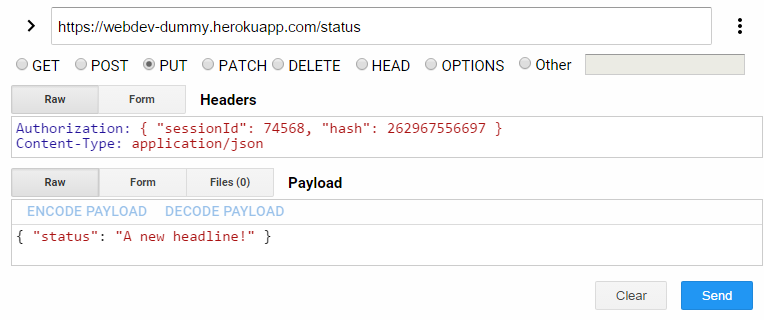
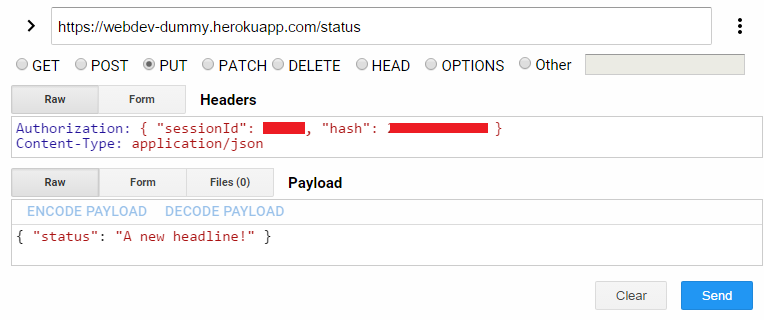
updates

Changed region(s): [[0.5118, 0.375, 0.6623, 0.4375], [0.3312, 0.375, 0.4215, 0.4375]]

diff --git a/data/api.html b/data/api.html
@@ -43,15 +43,19 @@ curl https://webdev-dummy.herokuapp.com/status
 </pre>
 <p>Ah ha! We need to login first!</p>
 <pre class="prettyprint lang-bash">
-curl -H 'Content-Type: application/json' https://webdev-dummy.herokuapp.com/login -d '{"username":"<netid>":, "password":"<three-word-passphrase>"}' -i
+curl -H 'Content-Type: application/json' https://webdev-dummy.herokuapp.com/login \
+    -d '{"username":"netid;":, "password":"three-word-passphrase"}' -i
 </pre>
-<p>This performs a <code>POST</code> (the data flag makes it a post by default) to the <code>/login</code> endpoint.  The payload is JSON, we inform the server it's JSON with the content-type header.  Be sure to pass properly formed JSON, this means keys are quoted.  The <code>-i</code> flag shows us the response headers.  If successful, we should see two <code>Set-Cookie</code> statements in the header.  We now pass those two authentication cookies when communicating with the server:</p>
+<p>(I've added a new line and \ for display purposes, you do not need the \ or the new line.)
+This performs a <code>POST</code> (the data flag makes it a post by default) to the <code>/login</code> endpoint.  The payload is JSON, we inform the server it's JSON with the content-type header.  Be sure to pass properly formed JSON, this means keys are quoted.  The <code>-i</code> flag shows us the response headers.  If successful, we should see two <code>Set-Cookie</code> statements in the header.  We now pass those two authentication cookies when communicating with the server:</p>
 <pre class="prettyprint lang-bash">
-curl -H 'Content-Type: application/json' --cookie 'sessionId=12345; hash=222333444' https://webdev-dummy.herokuapp.com/status
+curl -H 'Content-Type: application/json' --cookie 'sessionId=12345; hash=222333444' \
+    https://webdev-dummy.herokuapp.com/status
 </pre>
 <p>You should get back your current status headline from this <code>GET</code> request.  Now we change it:</p>
 <pre class="prettyprint lang-bash">
-curl -H 'Content-Type: application/json' --cookie 'sessionId=12345; hash=222333444' https://webdev-dummy.herokuapp.com/status -X PUT -d '{ "status":"A new headline!" }'
+curl -H 'Content-Type: application/json' --cookie 'sessionId=12345; hash=222333444' \
+    https://webdev-dummy.herokuapp.com/status -X PUT -d '{ "status":"A new headline!" }'
 </pre>
 <p>Status updating is an atomic action.  Therefore we use the <code>PUT</code> verb instead of the default <code>POST</code>.  Notice that we again pass JSON as the payload (the <code>-d</code> flag).  The server should respond with the updated status message.  We can then reverify by the previous <code>GET</code> request.
 </p>
@@ -67,11 +71,11 @@ the browser based REST client to verify what your payload should be and what the
 a cookie.  Using cookies in a browser based REST client is non-trivial.  Instead, I permit the
 cookie to be passed as an authorization header.  Below I use Advanced REST Client.  First
 we login to the server with our netid and three-word-passphrase</p>
-<img src="images/dummy-login.png">
+<img src="../images/dummy-login.png">
 <p>Look for the cookies in the response</p>
-<img src="images/dummy-cookie.png">
+<img src="../images/dummy-cookie.png">
 <p>Send these cookies on all future requests.  For example, here's changing the status headline</p>
-<img src="images/dummy-status.png">
+<img src="../images/dummy-status.png">
 
 <h3>Dummy Server API</h3>
 <table>
@@ -183,18 +187,6 @@ we login to the server with our netid and three-word-passphrase</p>
           <td>/zipcode</td><td>PUT</td><td>{ zipcode: newZipCode }</td>
           <td>{ username: loggedInUser, zipcode: newZipCode }</td>
           <td>update the zipcode for the loggedInUser</td>
-     </tr>
-
-     <tr>
-          <td>/locations/:user</td><td>GET</td><td>:user is a user id</td>
-          <td>{ username: :user, location: locationObject }</td>
-          <td>Returns the { lat:, lng: } of the requested user.</td>
-     </tr>
-
-     <tr>
-          <td>/locations</td><td>PUT</td><td>{ lat: latitude, lng: longitude }</td>
-          <td>{ username: :user, location: locationObject }</td>
-          <td>Updates the lat+lng of the loggedInUser</td>
      </tr>
 
      <tr>

diff --git a/views/assignments/frontend.html b/views/assignments/frontend.html
@@ -1,40 +1,29 @@
 <p>
-In this assignment you will implement and test the frontend of your web application.  The final product will be a fully functioning and tested front-end for a web application.
+In this assignment you will partially implement and test the frontend of your web application.  
 </p>
-<p>In the previous assignment we created two pages for our web application: the Landing page and the Main page.  
-The Landing page welcomes users and asks them to register or log in.  
-Additionally, visitors are invited to browse sample content from the site.
-The Main page is focused on the user's feed where they can add new posts, or comment on posts.  The feed is comprised of posts by the user and the users being followed.  These followed users appear in a list on the sidebar accompanied by their status headline.  We have mechanisms to add users and remove users from the followed list.  We have a mechanism to log out.  The user's status headline is shown and we have a way to edit it.  Finally there is a search box that allows us to filter posts by content (e.g., post author or body).
+<p>
+We start with our draft front-end application that contains three views: landing page with registration
+and login; main page with posts, followers, and status message; and the profile page.  
+Because the dummy server requires authentication, we start this assignment by implementing
+the login logic.  After we have logged in, we then request posts, list of followers, and the status
+of the logged in user from the server.  Finally we implement the ability to update the status
+message and update the followed users list.  
+In the next assignment we will implement adding new posts, commenting on posts, and uploading images
+with posts, in addition to the profile page and new user registation.
 </p>
 
-<h3>New Functionality</h3>
-<p>
-Each user has a profile.  The profile contains their name, their email, their password, their status, their profile picture, and their zip code.
-Create a view to allow the user to edit this information (the status they can already edit on the Main page, perhaps they can edit in this new view too).  In particular, a user needs to be able to upload their profile picture.
-</p>
+<p>Most importantly we want to peform test driven development as we implement our webapp.  Therefore
+before we implement anything we will first write tests for the desired functionality.  In this
+way the desired behavior will drive our implementation and design.</p>
 
 <h3>Dummy Server</h3>
-<p>Here is a <a target="_blank" href="data/api.html">list of endpoints</a> which is your API to a dummy data server.  
-Update your web application to use the server as your data source.  If there are additional endpoints that you desire which are not currently implemented by the server contact the instructor, we probably can add them for you.
-</p>
-<p>You have been pre-provided a user on the dummy server.</p>
+<p>Please refer to the <a target="_blank" href="data/api.html">list of endpoints</a> which is your API to a dummy data server.  You have been pre-provided a user on the dummy server in addition to a test user.</p>
 
-<span style='text-decoration: line-through;'>
 <h3>Unit Testing</h3>
 <p>
 Write Jasmine unit tests for your JavaScript functionality.  We want to test as much code as possible.
 Write a Karma configuration to test your site using Chrome.  Try to maximize your testing code coverage.
 </p>
-</span>
-
-<span style='text-decoration: line-through;'>
-<h3>End-to-End Testing</h3>
-<p>
-Use Protractor and write an end-to-end test for your web application.  Use the python SimpleHTTPServer / http.server to host your web page locally and have Protractor run against it.  The required tasks for your end-to-end test are listed in the requirements below.
-</p>
-</span>
-
-<h1>Requirements</h1>
 
 <p>Use Chrome as your standard supported browser.  (Whereas you can use any browser you like for development, your assignment will be accessed using Chrome by the grading staff and therefore it behooves you that it works.)  Host your webpage locally using the python server.</p>
 
